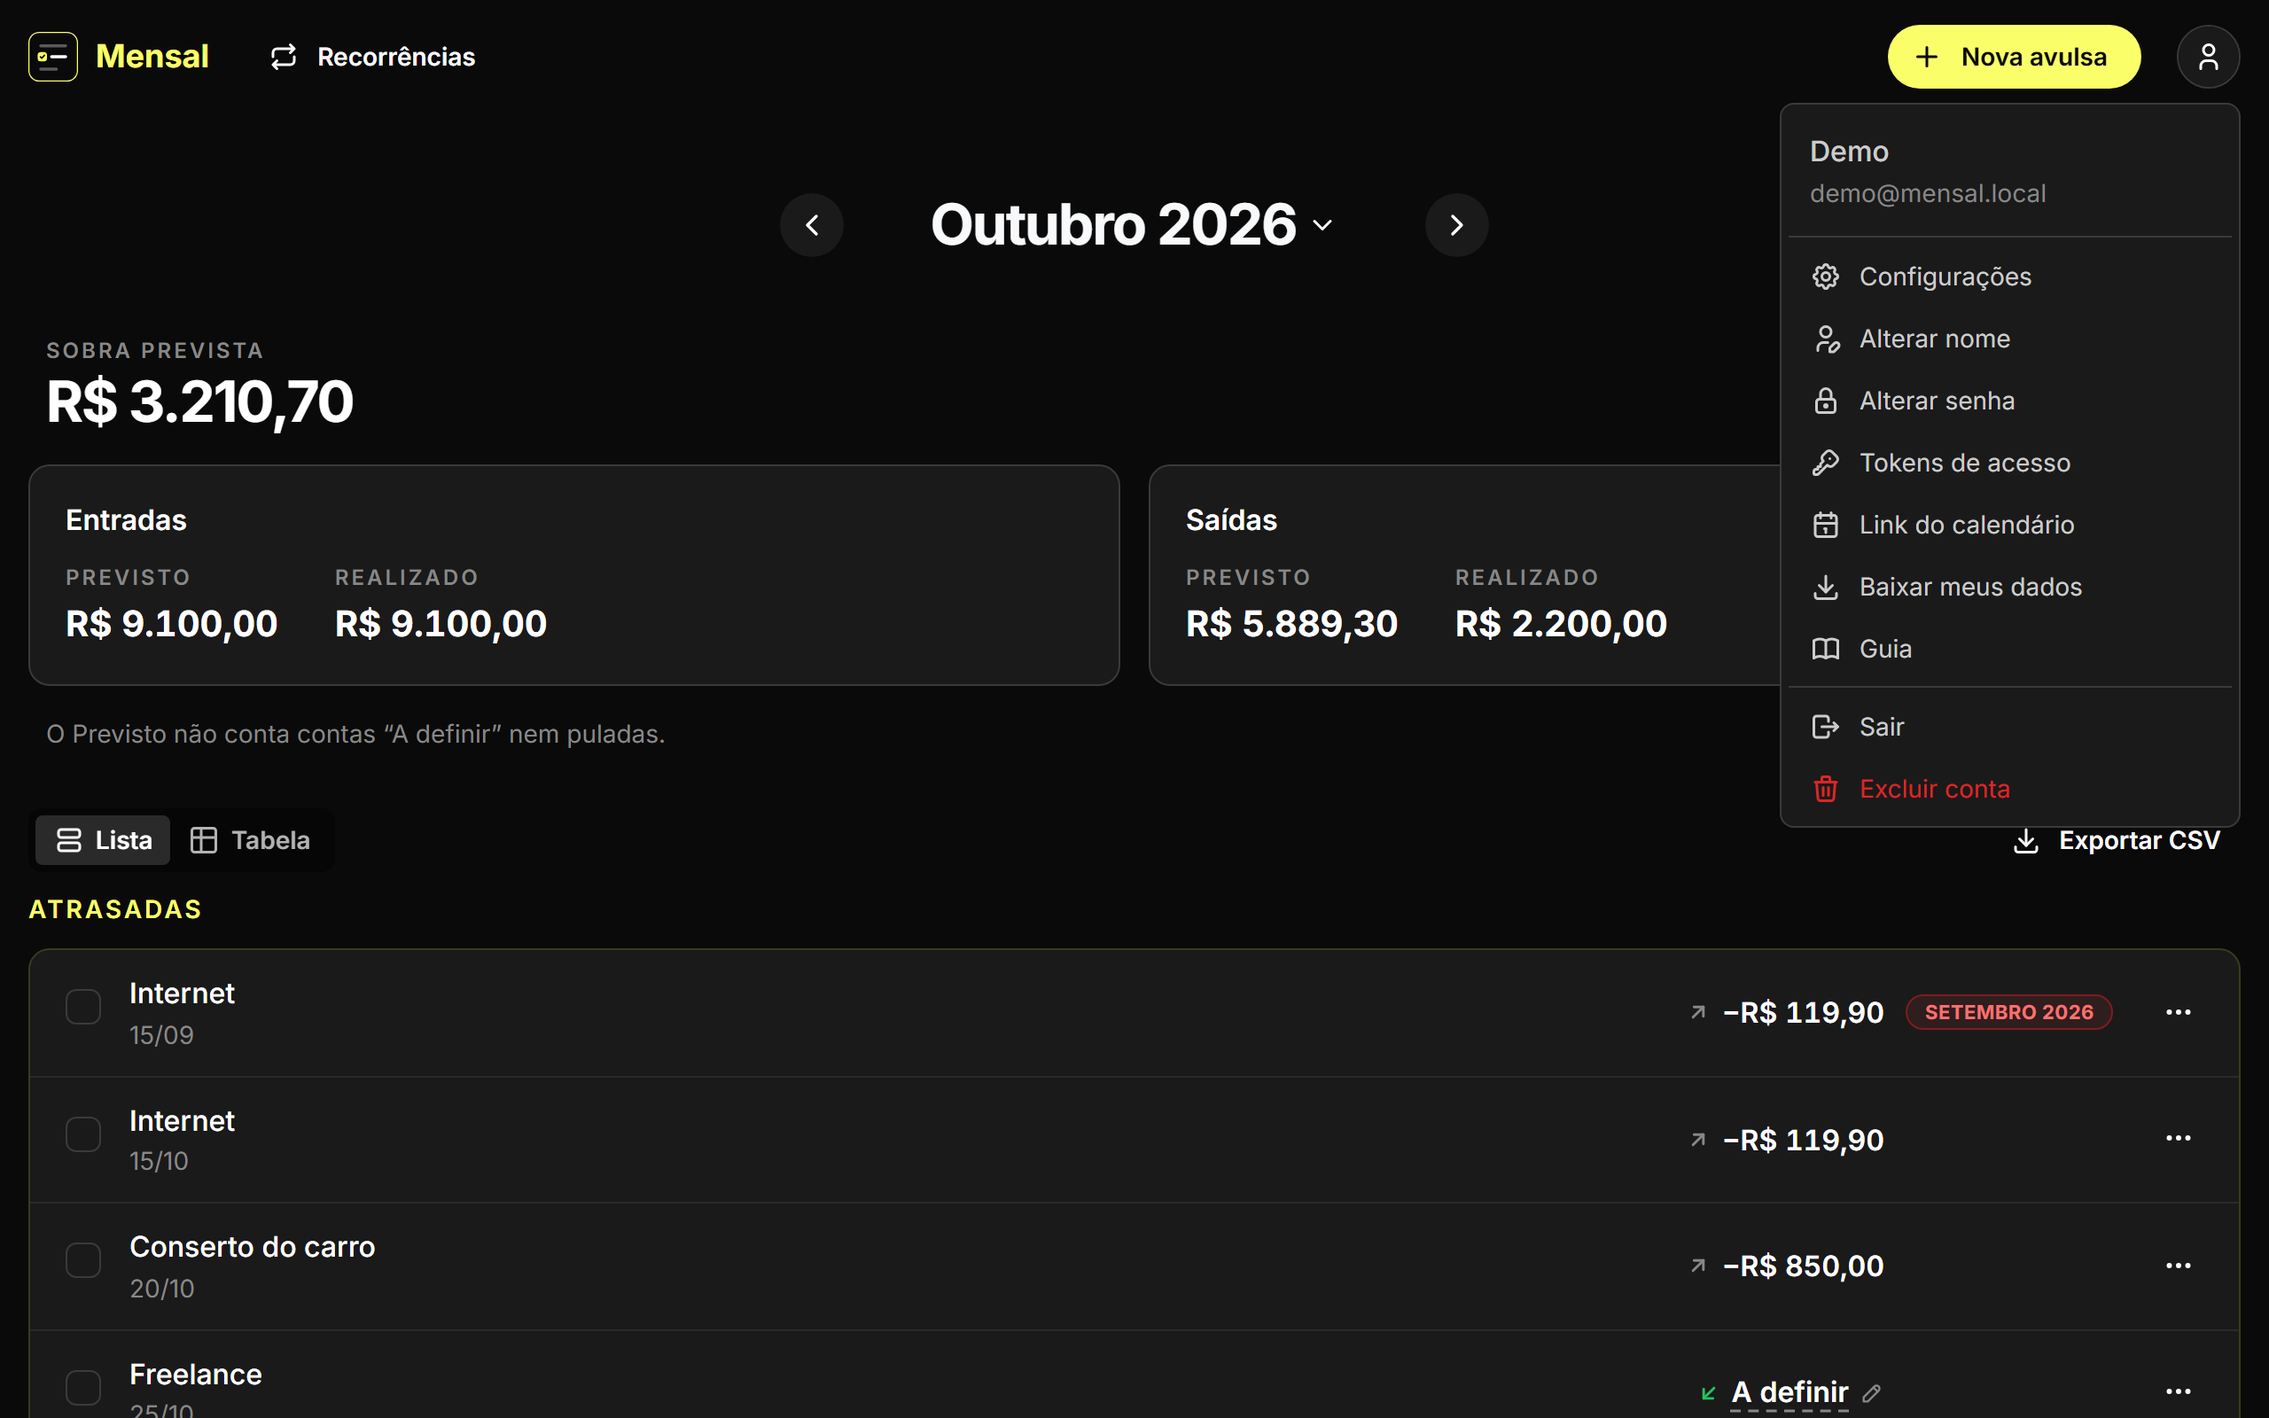
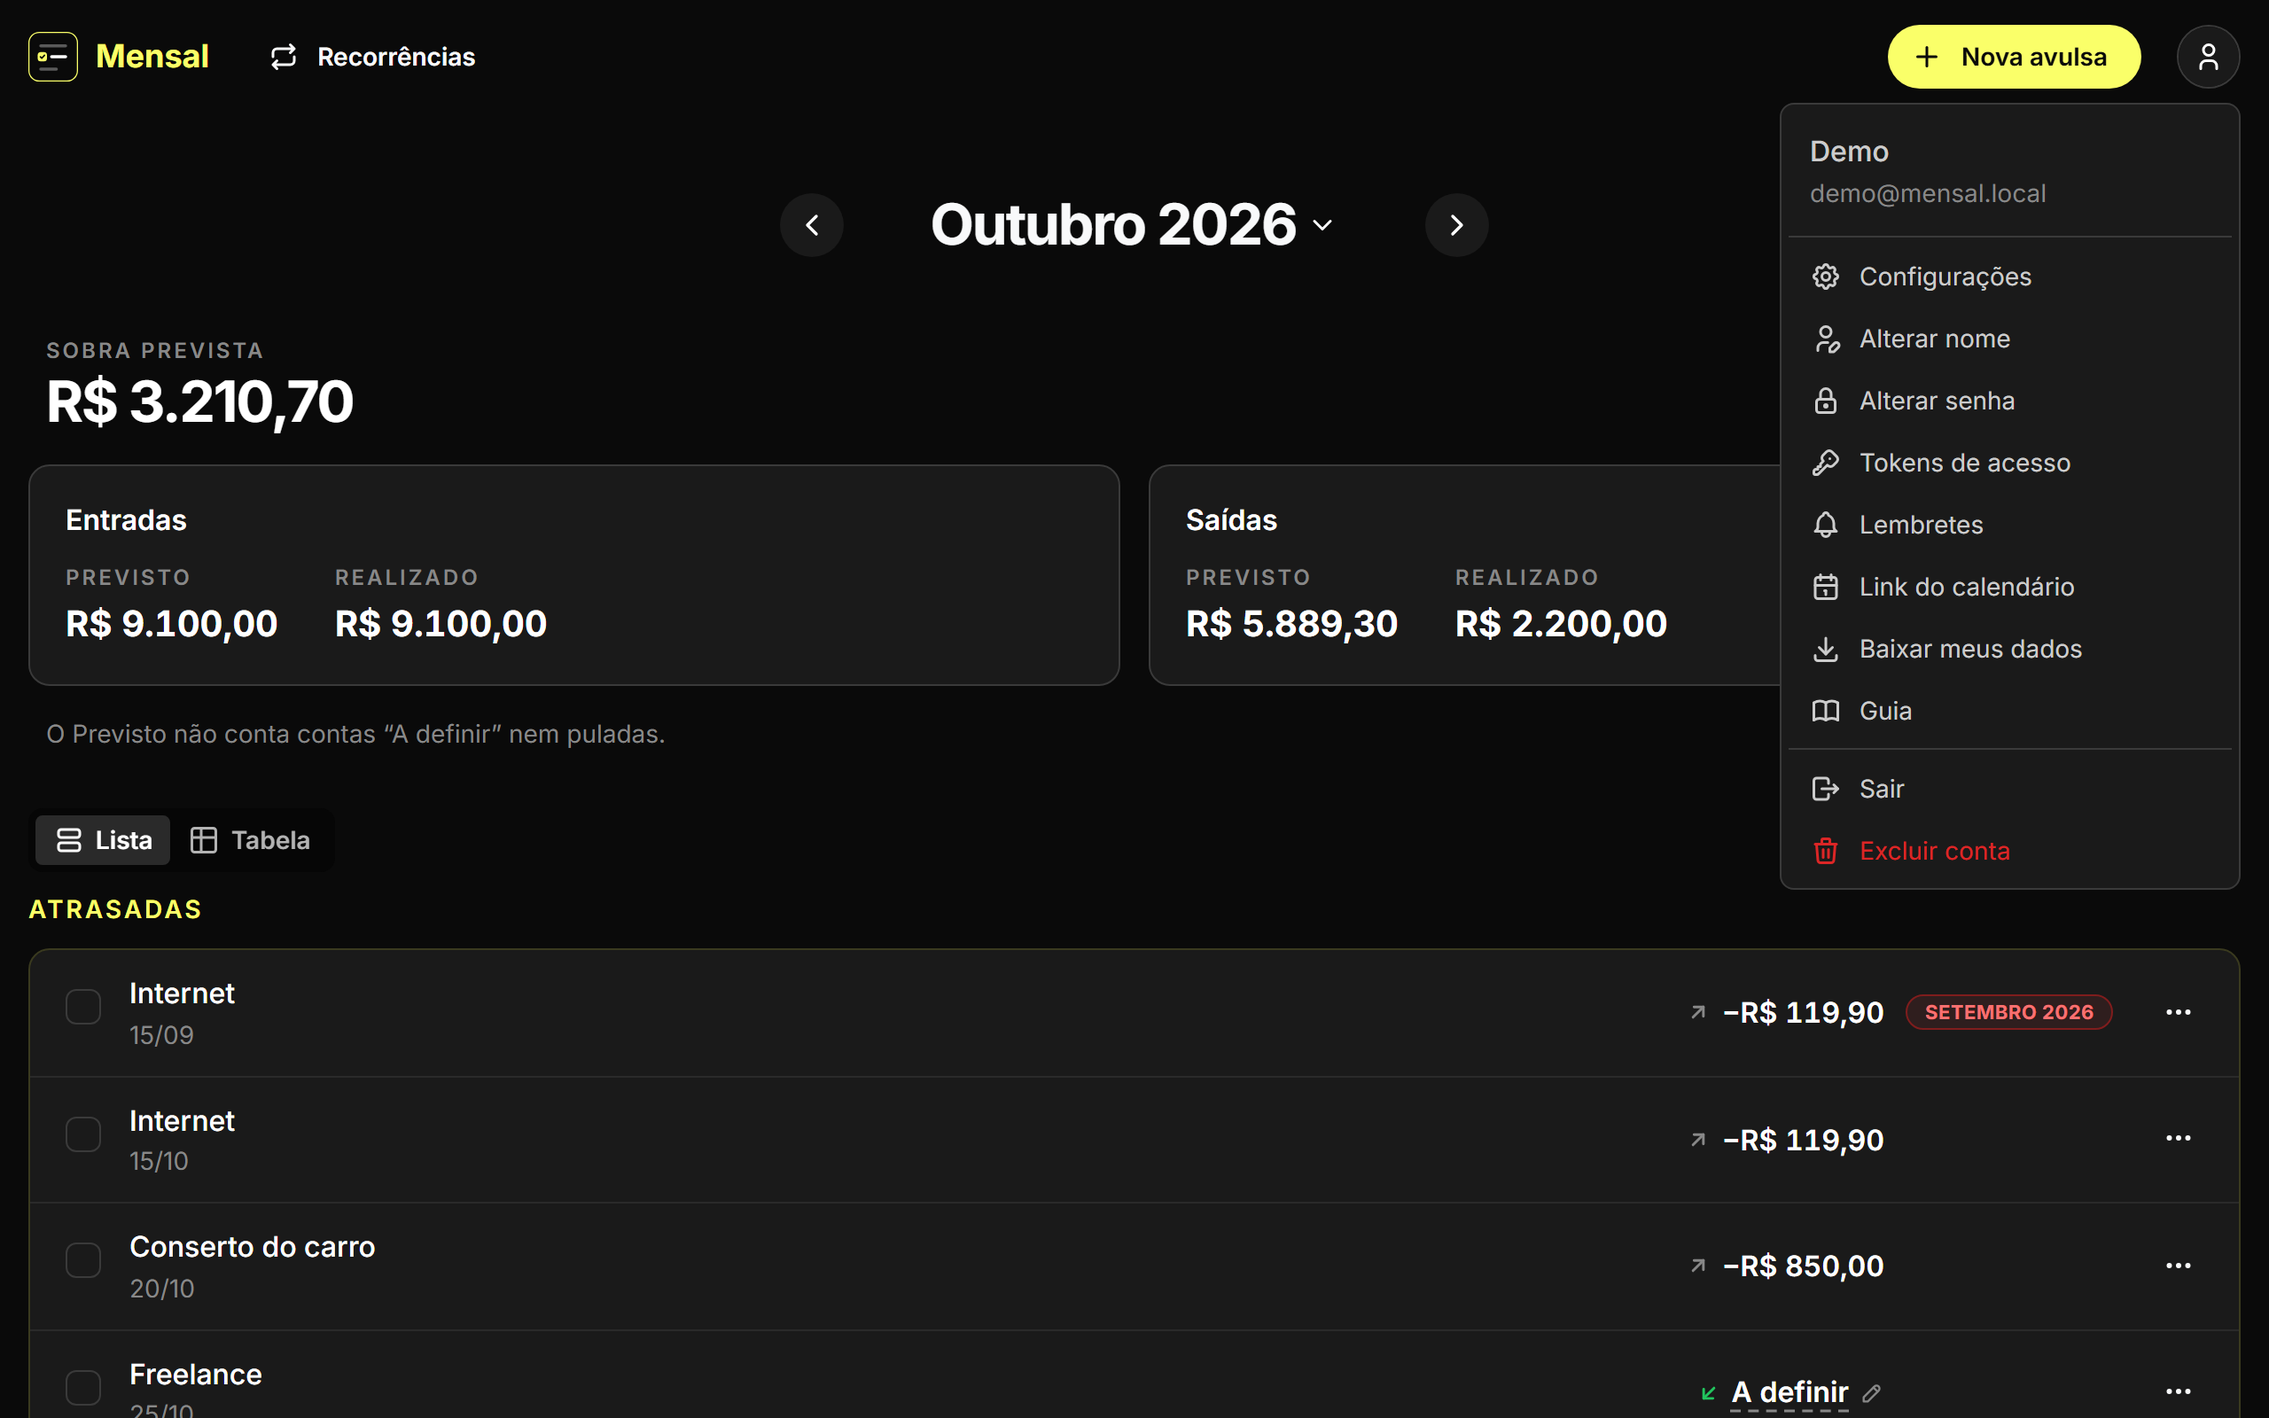
docs(guide): add the #lembretes section and screenshot (#99)
A #lembretes section before #calendario (PRD §7.17): what a reminder says
and when it comes, that it is turned on per device, how on Android and
computers and on iPhone/iPad (installed app, iOS 16.4+, linking to
#instalar), and how to undo a blocked permission. #calendario now opens as
the alternative for those who prefer their calendar.

The Lembretes screen links its rule sentence to the section (§7.19). The
new capture shows the screen Ativado, with the page's Push API stubbed so no
push service is reached; conta.png is retaken for the menu's new item.

diff --git a/apps/guide/index.html b/apps/guide/index.html
@@ -61,7 +61,8 @@
           <li><a href="#configuracoes">Configurações</a></li>
           <li><a href="#instalar">Instalar o app</a></li>
           <li><a href="#mcp">Agentes e tokens de acesso</a></li>
-          <li><a href="#calendario">Lembretes no seu calendário</a></li>
+          <li><a href="#lembretes">Lembretes</a></li>
+          <li><a href="#calendario">Contas no seu calendário</a></li>
           <li><a href="#conta">Sua conta</a></li>
         </ol>
       </nav>
@@ -549,10 +550,109 @@ http_headers = { Authorization = "Bearer &lt;token&gt;" }</code></pre>
           </p>
         </section>
 
-        <section id="calendario">
-          <h2>Lembretes no seu calendário</h2>
+        <section id="lembretes">
+          <h2>Lembretes</h2>
           <p>
-            O Mensal não envia avisos. Com o
+            Todo dia às 9h, o Mensal avisa no celular ou no computador quais
+            contas vencem no dia e quais estão atrasadas, para você não perder
+            um vencimento. O lembrete chega como uma notificação do sistema,
+            mesmo com o Mensal fechado.
+          </p>
+          <img
+            class="shot"
+            src="./screenshots/lembretes.png"
+            alt="O diálogo Lembretes: a frase sobre o lembrete diário das 9h, o link Como funcionam os lembretes, Neste dispositivo com o selo Ativado e os botões Fechar e Desativar neste dispositivo."
+            width="1280"
+            height="800"
+            loading="lazy"
+          />
+          <p>
+            O lembrete nomeia as contas só pela descrição, sem os valores e sem
+            as observações, porque aparece na tela de bloqueio. Por exemplo:
+            “Vence hoje: Aluguel”, ou “2 contas vencem hoje”, com a lista das
+            contas e “+ 1 atrasada”. As entradas vêm com “Entrada:” na frente.
+            Num dia sem contas vencendo nem atrasadas, não chega nada. Tocar no
+            lembrete abre o Mensal.
+          </p>
+          <p>
+            Os lembretes são ativados em cada dispositivo, um por um: ativar no
+            celular não ativa no computador. Você recebe um lembrete por dia em
+            cada dispositivo ativado.
+          </p>
+
+          <h3>1. Ativar no Android ou no computador</h3>
+          <ol class="steps" role="list">
+            <li>
+              Abra o Mensal no navegador do dispositivo, abra o menu da conta e
+              escolha <strong>Lembretes</strong>.
+            </li>
+            <li>
+              Toque em <strong>Ativar neste dispositivo</strong> e, quando o
+              navegador perguntar, permita as notificações.
+            </li>
+            <li>
+              Pronto: <strong>Neste dispositivo</strong> passa a mostrar
+              <strong>Ativado</strong>. Para parar, toque em
+              <strong>Desativar neste dispositivo</strong>.
+            </li>
+          </ol>
+
+          <h3>2. Ativar no iPhone ou no iPad</h3>
+          <ol class="steps" role="list">
+            <li>
+              No iPhone e no iPad, os lembretes só funcionam no app instalado na
+              tela inicial, com iOS 16.4 ou mais recente. Pelo Safari, a tela
+              Lembretes mostra <strong>Indisponível</strong>.
+            </li>
+            <li>
+              Instale o app, como em
+              <a href="#instalar">Instalar o app</a>, e abra o Mensal pelo ícone
+              na tela inicial.
+            </li>
+            <li>
+              No menu da conta, escolha <strong>Lembretes</strong>, toque em
+              <strong>Ativar neste dispositivo</strong> e permita as
+              notificações.
+            </li>
+          </ol>
+
+          <h3>Se as notificações foram bloqueadas</h3>
+          <p>
+            Se você recusou as notificações, a tela Lembretes mostra
+            <strong>Bloqueado pelo navegador</strong>, e o Mensal não consegue
+            pedir de novo: só você pode desfazer isso.
+          </p>
+          <ol class="steps" role="list">
+            <li>
+              No computador e no Android, toque no ícone ao lado do endereço do
+              site, abra as configurações do site e permita as
+              <strong>Notificações</strong>. No iPhone e no iPad, abra
+              <strong>Ajustes</strong>, depois <strong>Notificações</strong>,
+              escolha <strong>Mensal</strong> e permita as notificações.
+            </li>
+            <li>
+              Abra a tela <strong>Lembretes</strong> de novo e toque em
+              <strong>Ativar neste dispositivo</strong>.
+            </li>
+          </ol>
+
+          <h3>Outros dispositivos</h3>
+          <p>
+            A tela Lembretes mostra em quantos outros dispositivos os lembretes
+            estão ativados, e
+            <strong>Desativar em todos os dispositivos</strong> desativa todos
+            de uma vez, depois de uma confirmação. Ao sair da conta num
+            dispositivo, os lembretes dele são desativados. Redefinir a senha
+            desativa os lembretes em todos os dispositivos; ao alterar a senha,
+            <strong>Desconectar dos outros dispositivos</strong> desativa os dos
+            outros e mantém os deste.
+          </p>
+        </section>
+
+        <section id="calendario">
+          <h2>Contas no seu calendário</h2>
+          <p>
+            Prefere ver no calendário? Com o
             <strong>Link do calendário</strong>, as suas contas pendentes
             aparecem no calendário que você já usa, como o Google Agenda ou o
             Calendário da Apple: cada uma como um evento de dia inteiro no dia
@@ -662,7 +762,7 @@ http_headers = { Authorization = "Bearer &lt;token&gt;" }</code></pre>
           <img
             class="shot"
             src="./screenshots/conta.png"
-            alt="O menu da conta aberto, com o nome e o e-mail no topo e os itens Configurações, Alterar nome, Alterar senha, Tokens de acesso, Link do calendário, Baixar meus dados, Guia, Sair e Excluir conta."
+            alt="O menu da conta aberto, com o nome e o e-mail no topo e os itens Configurações, Alterar nome, Alterar senha, Tokens de acesso, Lembretes, Link do calendário, Baixar meus dados, Guia, Sair e Excluir conta."
             width="1280"
             height="800"
             loading="lazy"

diff --git a/apps/guide/scripts/captures.ts b/apps/guide/scripts/captures.ts
@@ -18,6 +18,8 @@ export interface Capture {
   view?: "list" | "table";
   /** Taken signed out, as someone without an account sees it. */
   signedOut?: boolean;
+  /** What to set up in the page before it loads, e.g. a stubbed browser API. */
+  init?: (page: Page) => Promise<void>;
   /** What to do on the page before the shot. */
   steps?: (page: Page) => Promise<void>;
 }
@@ -39,6 +41,58 @@ async function openAccountMenuItem(page: Page, item: string) {
   await openAccountMenu(page);
   await page.getByRole("menuitem", { name: item }).click();
   await page.getByRole("dialog").waitFor();
+}
+
+/**
+ * Stands in for the browser's Push API (PRD §7.17): a service worker
+ * registration whose push manager hands out a made-up registration, and a
+ * permission the user grants. The endpoint is on a reserved `.invalid` host
+ * and the keys are not a real key pair, so no push service is ever reached,
+ * not even by the API's confirmation, which fails and is only logged.
+ */
+async function stubPush(page: Page): Promise<void> {
+  await page.addInitScript(() => {
+    let permission: NotificationPermission = "default";
+    let subscription: PushSubscription | null = null;
+    const made = {
+      endpoint: "https://push.mensal-guia.invalid/dispositivo",
+      keys: { p256dh: "chave-do-guia", auth: "segredo-do-guia" },
+    };
+    const pushManager = {
+      getSubscription: async () => subscription,
+      subscribe: async () => {
+        subscription = {
+          endpoint: made.endpoint,
+          toJSON: () => made,
+          unsubscribe: async () => {
+            subscription = null;
+            return true;
+          },
+        } as unknown as PushSubscription;
+        return subscription;
+      },
+    };
+    const registration = {
+      pushManager,
+    } as unknown as ServiceWorkerRegistration;
+    Object.defineProperty(navigator, "serviceWorker", {
+      configurable: true,
+      value: { getRegistration: async () => registration },
+    });
+    Object.defineProperty(window, "PushManager", {
+      configurable: true,
+      value: function PushManager() {},
+    });
+    Object.defineProperty(window, "Notification", {
+      configurable: true,
+      value: {
+        get permission() {
+          return permission;
+        },
+        requestPermission: async () => (permission = "granted"),
+      },
+    });
+  });
 }
 
 export const captures: Capture[] = [
@@ -117,6 +171,21 @@ export const captures: Capture[] = [
       await page.getByLabel("Senha atual").fill(demoUser.password);
       await page.getByRole("button", { name: "Criar", exact: true }).click();
       await page.getByText("Copie o token agora").waitFor();
+    },
+  },
+  {
+    name: "lembretes",
+    path: "/",
+    viewport: "desktop",
+    // Ativado on this device: turned on through the stubbed Push API.
+    init: stubPush,
+    steps: async (page) => {
+      await openAccountMenuItem(page, "Lembretes");
+      const dialog = page.getByRole("dialog", { name: "Lembretes" });
+      await dialog
+        .getByRole("button", { name: "Ativar neste dispositivo" })
+        .click();
+      await dialog.getByText("Ativado", { exact: true }).waitFor();
     },
   },
   {

diff --git a/apps/guide/tests/page.test.ts b/apps/guide/tests/page.test.ts
@@ -38,6 +38,7 @@ describe("guide sections", () => {
       "configuracoes",
       "instalar",
       "mcp",
+      "lembretes",
       "calendario",
       "conta",
     ]);
@@ -139,6 +140,31 @@ describe("guide page", () => {
     expect(mcp.textContent).toContain("Authorization: Bearer");
     expect(mcp.textContent).toContain("quais contas vencem esta semana?");
     expect(mcp.textContent).toContain("liquide a conta de luz");
+  });
+
+  it("shows the Lembretes screen: what, when, per device, how on each platform, and unblocking", () => {
+    const reminders = page.getElementById("lembretes")!;
+    const shot = reminders.querySelector("img")?.getAttribute("src");
+    expect(shot).toBe("./screenshots/lembretes.png");
+    const text = reminders.textContent ?? "";
+    expect(text).toContain("9h");
+    expect(text).toMatch(/vencem no dia/);
+    expect(text).toMatch(/atrasadas/);
+    expect(text).toMatch(/sem (os )?valores|nunca .*valor/i);
+    expect(text).toMatch(/cada (dispositivo|aparelho)/i);
+    expect(text).toContain("Ativar neste dispositivo");
+    expect(text).toContain("Android");
+    expect(text).toContain("iOS 16.4");
+    expect(text).toContain("Bloqueado pelo navegador");
+    expect(reminders.querySelector("a[href='#instalar']")).not.toBeNull();
+  });
+
+  it("presents the calendar link as the alternative to reminders", () => {
+    const calendar = page.getElementById("calendario")!;
+    expect(calendar.querySelector("h2 + p")?.textContent).toMatch(
+      /prefere ver no calendário\?/i
+    );
+    expect(calendar.textContent).not.toContain("O Mensal não envia avisos");
   });
 
   it("shows the calendar link screen and steps for Google and Apple", () => {

diff --git a/apps/web/tests/guide-links.test.tsx b/apps/web/tests/guide-links.test.tsx
@@ -4,6 +4,7 @@ import userEvent from "@testing-library/user-event";
 import { beforeEach, describe, expect, it } from "vitest";
 import { chooseFromAccountMenu } from "./account-menu.ts";
 import { fakeApi, type FakeApi } from "./fake-api.ts";
+import { fakePush } from "./fake-push.ts";
 import { openApp } from "./open-app.tsx";
 
 // Links from the app to the static guide (PRD §7.17). The guide is not part of
@@ -100,6 +101,18 @@ describe("links to the guide", () => {
         name: "Como conectar um agente",
       });
       expect(link).toHaveAttribute("href", guideHref("mcp"));
+    });
+
+    it("from Lembretes, with the rule, to the reminders section", async () => {
+      fakePush();
+      const user = userEvent.setup();
+      await chooseFromAccountMenu("Lembretes", user);
+      const dialog = await screen.findByRole("dialog", { name: "Lembretes" });
+
+      const link = await within(dialog).findByRole("link", {
+        name: "Como funcionam os lembretes",
+      });
+      expect(link).toHaveAttribute("href", guideHref("lembretes"));
     });
 
     it("from Link do calendário, below the caveats, to the calendar section", async () => {

diff --git a/apps/web/src/reminders.tsx b/apps/web/src/reminders.tsx
@@ -153,10 +153,13 @@ function RemindersScreen({ onClose }: { onClose: () => void }) {
   const error = turnOn.error ?? turnOff.error;
   return (
     <Stack gap="md">
-      <Text>
-        Todo dia às 9h, neste dispositivo, você recebe um lembrete das contas
-        que vencem no dia e das atrasadas.
-      </Text>
+      <Stack gap={4} align="flex-start">
+        <Text>
+          Todo dia às 9h, neste dispositivo, você recebe um lembrete das contas
+          que vencem no dia e das atrasadas.
+        </Text>
+        <GuideLink section="lembretes">Como funcionam os lembretes</GuideLink>
+      </Stack>
       <Group gap="xs">
         <Text fw={500}>Neste dispositivo:</Text>
         <DeviceBadge device={device} />

diff --git a/apps/guide/scripts/screenshots.ts b/apps/guide/scripts/screenshots.ts
@@ -100,6 +100,7 @@ async function take(
     theme = "dark",
     view = "list",
     signedOut = false,
+    init,
     steps,
   }: Capture,
   storageState: StorageState
@@ -114,6 +115,7 @@ async function take(
   });
   try {
     const page = await context.newPage();
+    await init?.(page);
     // Every token the app creates during the steps, and every calendar link
     // key it shows, to keep off the capture.
     const tokens: RealToken[] = [];

diff --git a/apps/guide/index.ts b/apps/guide/index.ts
@@ -14,6 +14,7 @@ export const guideSections = [
   "configuracoes",
   "instalar",
   "mcp",
+  "lembretes",
   "calendario",
   "conta",
 ] as const;
